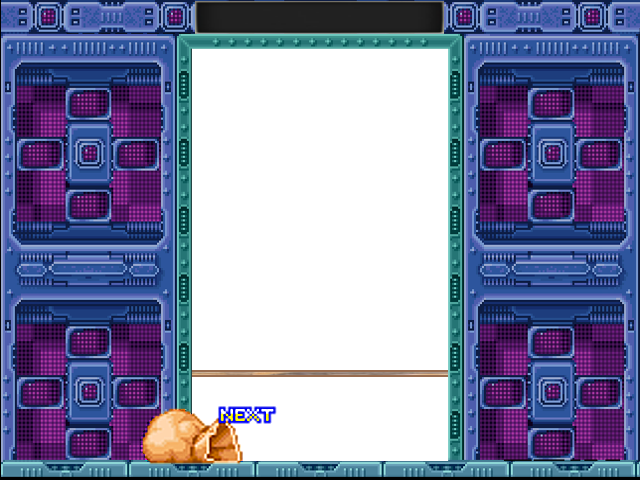
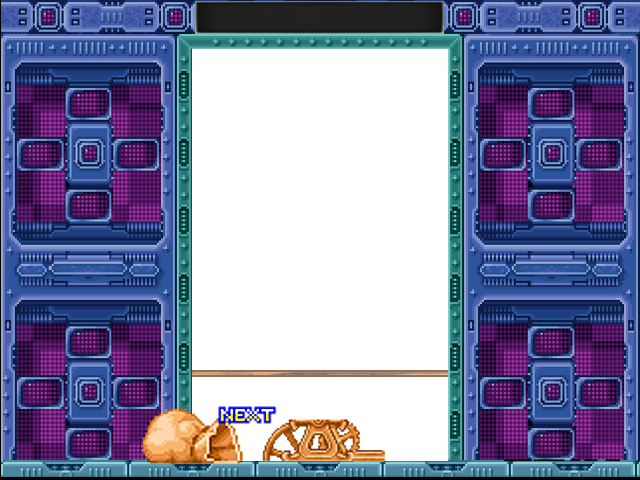
Added helper animation. Bug fixes

Changed region(s): [[0.4062, 0.875, 0.625, 0.9688]]

diff --git a/PuzzleBubble/Scene.cpp b/PuzzleBubble/Scene.cpp
@@ -19,8 +19,12 @@
 #define BALL_SCALE_Y 1.9f
 #define INITIAL_BALL_X 317
 #define INITIAL_BALL_Y 425
+#define MID_BALL_X 290
+#define MID_BALL_Y 442
 #define NEXT_BALL_X 234
 #define NEXT_BALL_Y 450
+#define BUB2_X 235
+#define BUB2_Y 420
 //timer definitons
 #define UPDATE_TIME 15000 //20000
 //music definitions
@@ -35,6 +39,11 @@
 #define NUMBER_OF_LEVELS 5
 char* levels[] = {"levels/level01.txt", "levels/level02.txt", "levels/level03.txt",  "levels/level04.txt",  "levels/level05.txt" };
 int level = 0;
+
+enum moves {
+	STILL, LOADBALL
+};
+
 Scene::Scene()
 {
 	map = NULL;
@@ -105,13 +114,13 @@ void Scene::init()
 
 	int color = rand() % 5;
 	texCoords[0] = ballsCoords[color * 2]; texCoords[1] = ballsCoords[(color * 2) + 1];
-	currentBall = Ball::createBall(geom, texCoords, texProgram);
+	currentBall = Ball::createBall(geom, texCoords, ballProgram);
 	currentBall->setPosition(glm::vec2(INITIAL_BALL_X, INITIAL_BALL_Y));
 	currentBall->setColor(color);
 
 	color = rand() % 5;
 	texCoords[0] = ballsCoords[color * 2]; texCoords[1] = ballsCoords[(color * 2) + 1];
-	nextBall = Ball::createBall(geom, texCoords, texProgram);
+	nextBall = Ball::createBall(geom, texCoords, ballProgram);
 	nextBall->setPosition(glm::vec2(NEXT_BALL_X, NEXT_BALL_Y));
 	nextBall->setColor(color);
 
@@ -155,6 +164,9 @@ void Scene::init()
 	musicTimer = 0;
 	specialBallDogWatch = 5;
 	exploding = 0;
+
+	initHelper();
+	framesBub2Anim = 0;
 }
 
 void Scene::update(int deltaTime)
@@ -164,7 +176,6 @@ void Scene::update(int deltaTime)
 		queue<int> ballsToExplode = map->getMustExplode(); // format of queue [color -> y -> x] (x first) in screen coords
 		scoreSound->stop();
 		score += (ballsToExplode.size() / 3) * 10;
-		explosions.clear();
 		while (!ballsToExplode.empty()) {
 			/*ballsExploding.push(ballsToExplode.front());
 			ballsToExplode.pop();
@@ -181,7 +192,7 @@ void Scene::update(int deltaTime)
 			ballsToExplode.pop();
 			Explosion *exp = new Explosion();
 			exp->init(texProgram, glm::vec2(x, y), color);
-			explosions.push_back(*exp);
+			explosions.push(exp);
 		}
 		exploding = 1;
 		map->resetMustExplode();
@@ -205,6 +216,15 @@ void Scene::update(int deltaTime)
 		status = UPDATING_BOARD;		
 	}
 	if (screenSoundPlaying)	skin->setPosition(glm::vec2(16.f + 3 - (rand() % 6), 8.f));
+	if (exploding) {
+		int expSize = explosions.size();
+		for (int i = 0; i < expSize; ++i) {
+			Explosion *exp = explosions.front();
+			explosions.pop();
+			exp->update(deltaTime);
+			explosions.push(exp);
+		}
+	}
 	switch (status) {
 	case STAGE_CLEAR:
 		delete(movingBall);
@@ -229,7 +249,32 @@ void Scene::update(int deltaTime)
 			screenSoundPlaying = false;
 		}
 		break;
-	case PLAYING:
+	case PLAYING:		
+		if (framesBub2Anim > 0) {
+			framesBub2Anim--;
+			if (framesBub2Anim == 10) {
+				nextBall->setPosition(glm::vec2(MID_BALL_X, MID_BALL_Y));
+			}
+		}
+		else if (bub2->getAnimation() != STILL) {
+			currentBall = nextBall;
+			currentBall->setPosition(glm::vec2(INITIAL_BALL_X, INITIAL_BALL_Y));
+			int color = rand() % 5;
+			int specialBall = rand() % 100;
+			specialBallDogWatch--;
+			if (specialBall < 20 && specialBallDogWatch <= 0) { //chance of special ball 20%
+				color = 7;
+				specialBallDogWatch = 5; //Minimum 5 balls between each special ball
+			}
+			glm::vec2 texCoords[2];
+			glm::vec2 geom[2] = { glm::vec2(0.f, 0.f), glm::vec2(16.f, 16.f) };
+			texCoords[0] = ballsCoords[color * 2]; texCoords[1] = ballsCoords[(color * 2) + 1];
+			nextBall = Ball::createBall(geom, texCoords, ballProgram);
+			nextBall->setColor(color);
+			nextBall->setPosition(glm::vec2(NEXT_BALL_X, NEXT_BALL_Y));
+			bub2->changeAnimation(STILL);
+		}
+		bub2->update(deltaTime);
 		musicTimer -= deltaTime;
 		if (map->checkDeath()) {
 			status = DEAD;
@@ -257,32 +302,19 @@ void Scene::update(int deltaTime)
 				delete(movingBall);
 				movingBall = NULL;				
 			}
-		}
-		if (exploding) {
-			for (int i = 0; i < explosions.size(); ++i)	explosions[i].update(deltaTime);
-		}
+		}		
 		if (player->isBallShot()) {
+			bub2->changeAnimation(LOADBALL);
+			framesBub2Anim = 20;
 			player->ballShotAcquired();
 			glm::vec2 texCoords[2];
 			glm::vec2 geom[2] = { glm::vec2(0.f, 0.f), glm::vec2(16.f, 16.f) };
 			texCoords[0] = ballsCoords[currentBall->getColor() * 2]; texCoords[1] = ballsCoords[(currentBall->getColor() * 2) + 1];
-			movingBall = Ball::createBall(geom, texCoords, texProgram);;
+			movingBall = Ball::createBall(geom, texCoords, ballProgram);;
 			movingBall->setColor(currentBall->getColor());
 			movingBall->setPosition(glm::vec2(INITIAL_BALL_X, INITIAL_BALL_Y));
-			movingBall->setDirection(player->getArrowDirection());
-			currentBall = nextBall;
-			currentBall->setPosition(glm::vec2(INITIAL_BALL_X, INITIAL_BALL_Y));
-			int color = rand() % 5;
-			int specialBall = rand() % 100;
-			specialBallDogWatch--;
-			if (specialBall < 20 && specialBallDogWatch <= 0) { //chance of special ball 20%
-				color = 7; 
-				specialBallDogWatch = 5; //Minimum 5 balls between each special ball
-			}
-			texCoords[0] = ballsCoords[color * 2]; texCoords[1] = ballsCoords[(color * 2) + 1];
-			nextBall = Ball::createBall(geom, texCoords, texProgram);
-			nextBall->setColor(color);
-			nextBall->setPosition(glm::vec2(NEXT_BALL_X, NEXT_BALL_Y));
+			movingBall->setDirection(player->getArrowDirection());	
+			currentBall = NULL;
 		}
 		if (map->getBallsNumber() == 0) {
 			status = STAGE_CLEAR;
@@ -298,33 +330,58 @@ void Scene::render(int deltaTime)
 {
 	texProgram.use();
 	background->render();
-	frameCounter++;	
-	glm::mat4 modelview;	
-	if (status == PLAYING) {
-		texProgram.setUniformMatrix4f("projection", projection);
+	frameCounter++;		
+	texProgram.setUniformMatrix4f("projection", projection);
+	if (status == PLAYING) {		
 		texProgram.setUniform4f("color", 1.0f, 1.0f, 1.0f, 1.0f);
 	}
-	else if(status == DEAD) {
-		texProgram.setUniformMatrix4f("projection", projection);
+	else if(status == DEAD) {		
 		texProgram.setUniform4f("color", 0.2f, 0.2f, 0.2f, 1.0f);
 	}
-	else if (status == STAGE_CLEAR) {
-		texProgram.setUniformMatrix4f("projection", projection);
+	else if (status == STAGE_CLEAR) {		
 		texProgram.setUniform4f("color", 0.6f, 0.6f, 0.6f, 1.0f);
 	}
-	modelview = glm::mat4(1.0f);
+	glm::mat4 modelview = glm::mat4(1.0f);
 	texProgram.setUniformMatrix4f("modelview", modelview);
 	texProgram.setUniform2f("texCoordDispl", 0.f, 0.f);
 	
 	map->render();
 	skin->render();
-	player->render();			
-	currentBall->render(glm::vec2(BALL_SCALE_X, BALL_SCALE_Y), ballsTex);
+	player->render();	
+	
+	bub2->render();
+	ballProgram.use();
+	ballProgram.setUniformMatrix4f("projection", projection);
+	ballProgram.setUniformMatrix4f("modelview", modelview);
+	ballProgram.setUniform2f("texCoordDispl", 0.f, 0.f);
+	if (status == PLAYING) {
+		ballProgram.setUniform4f("color", 1.0f, 1.0f, 1.0f, 1.0f);
+	}
+	else if (status == DEAD) {
+		ballProgram.setUniform4f("color", 0.2f, 0.2f, 0.2f, 1.0f);
+	}
+	else if (status == STAGE_CLEAR) {
+		ballProgram.setUniform4f("color", 0.6f, 0.6f, 0.6f, 1.0f);
+	}
+	if (currentBall != NULL) currentBall->render(glm::vec2(BALL_SCALE_X, BALL_SCALE_Y), ballsTex);
 	nextBall->render(glm::vec2(BALL_SCALE_X, BALL_SCALE_Y), ballsTex);
 	if (exploding) {
-		if ((explosions[0].getState() / 5) != exploding) ++exploding;
-		if (exploding > 20) exploding = 0;
-		for (int i = 0; i < explosions.size(); ++i)	explosions[i].render();
+		int expSize = explosions.size();
+		for (int i = 0; i < expSize; ++i) {
+			Explosion *exp = explosions.front();
+			explosions.pop();
+			if (exp->getState() < 20) {
+				explosions.push(exp);
+				exp->render();
+			}
+			else {
+				delete exp;
+			}					
+		}
+		if (explosions.size() == 0) {
+			exploding = 0;
+		}
+
 	}
 	
 	if (movingBall != NULL) {
@@ -370,21 +427,7 @@ void Scene::initShaders()
 		cout << "" << texProgram.log() << endl << endl;
 	}
 	texProgram.bindFragmentOutput("outColor");
-	vShader.free();
-	fShader.free();
-
-	vShader.initFromFile(VERTEX_SHADER, "shaders/text.vert");
-	if (!vShader.isCompiled())
-	{
-		cout << "Vertex Shader Error" << endl;
-		cout << "" << vShader.log() << endl << endl;
-	}
-	fShader.initFromFile(FRAGMENT_SHADER, "shaders/text.frag");
-	if (!fShader.isCompiled())
-	{
-		cout << "Fragment Shader Error" << endl;
-		cout << "" << fShader.log() << endl << endl;
-	}
+	
 	textProgram.init();
 	textProgram.addShader(vShader);
 	textProgram.addShader(fShader);
@@ -395,10 +438,43 @@ void Scene::initShaders()
 		cout << "" << textProgram.log() << endl << endl;
 	}
 	textProgram.bindFragmentOutput("outColor");
+
+
+	ballProgram.init();
+	ballProgram.addShader(vShader);
+	ballProgram.addShader(fShader);
+	ballProgram.link();
+	if (!ballProgram.isLinked())
+	{
+		cout << "Shader Linking Error" << endl;
+		cout << "" << ballProgram.log() << endl << endl;
+	}
+	ballProgram.bindFragmentOutput("outColor");
+
+
 	vShader.free();
 	fShader.free();
 
 	
+}
+
+void Scene::initHelper() {
+	bub2Tex.loadFromFile("images/bub2.png", TEXTURE_PIXEL_FORMAT_RGBA);
+	bub2Tex.setWrapS(GL_CLAMP_TO_EDGE);
+	bub2Tex.setWrapT(GL_CLAMP_TO_EDGE);
+	bub2Tex.setMinFilter(GL_NEAREST);
+	bub2Tex.setMagFilter(GL_NEAREST);
+	bub2 = Sprite::createSprite(glm::vec2(70.f, 54.f), glm::vec2(0.125f, 1.f), &bub2Tex, &texProgram);
+	bub2->setNumberAnimations(2);
+	bub2->setAnimationSpeed(STILL, 2);
+	bub2->addKeyframe(STILL, glm::vec2(0.0f, 0.f));
+	bub2->addKeyframe(STILL, glm::vec2(0.298f, 0.f));
+	bub2->setAnimationSpeed(LOADBALL, 5);
+	bub2->addKeyframe(LOADBALL, glm::vec2(0.584f, 0.f));
+	bub2->addKeyframe(LOADBALL, glm::vec2(0.71f, 0.f));
+	bub2->addKeyframe(LOADBALL, glm::vec2(0.852f, 0.f));	
+	bub2->changeAnimation(STILL);
+	bub2->setPosition(glm::vec2(BUB2_X, BUB2_Y));
 }
 
 

diff --git a/PuzzleBubble/Player.cpp b/PuzzleBubble/Player.cpp
@@ -65,16 +65,16 @@ void Player::init(const glm::ivec2 &tileMapPos, ShaderProgram &shaderProgram, gl
 void Player::update(int deltaTime, Ball *currentBall)
 {	
 	if (waitingToShoot > 0) waitingToShoot -= deltaTime;
-	if(Game::instance().getSpecialKey(GLUT_KEY_RIGHT))
+	if(Game::instance().getSpecialKey(GLUT_KEY_RIGHT) && arrowAngle < MAX_ARROW_ROT)
 	{
 		if (bub->animation() != RIGHT) bub->changeAnimation(RIGHT);
-		if (arrowAngle < MAX_ARROW_ROT) arrowAngle += ROT_SPEED * deltaTime;
+		arrowAngle += ROT_SPEED * deltaTime;
 		arrowDirection = -glm::normalize(glm::rotate(glm::mat4(1.0f), arrowAngle, glm::vec3(0.f, 0.f, 1.f)) * glm::vec4(0.f, 1.f, 0.f, 1.f));
 	}
-	else if(Game::instance().getSpecialKey(GLUT_KEY_LEFT))
+	else if(Game::instance().getSpecialKey(GLUT_KEY_LEFT) && arrowAngle > -MAX_ARROW_ROT)
 	{
 		if (bub->animation() != LEFT) bub->changeAnimation(LEFT);
-		if (arrowAngle > -MAX_ARROW_ROT) arrowAngle -= ROT_SPEED * deltaTime;
+		arrowAngle -= ROT_SPEED * deltaTime;
 		arrowDirection = -glm::normalize(glm::rotate(glm::mat4(1.0f), arrowAngle, glm::vec3(0.f, 0.f, 1.f)) * glm::vec4(0.f, 1.f, 0.f, 1.f));
 	}
 	else if (Game::instance().getKey(32) && waitingToShoot <= 0 && !blocked) {

diff --git a/PuzzleBubble/Scene.h b/PuzzleBubble/Scene.h
@@ -30,18 +30,20 @@ public:
 
 private:
 	void initShaders();
+	void initHelper();
 	TileMap *map;
 	Player *player;
-	ShaderProgram texProgram, textProgram;
+	ShaderProgram texProgram, textProgram, ballProgram;
 	float currentTime;
 	int updateScreenTimer;
 	glm::mat4 projection;
-	Sprite *skin, *background;
-	Texture skinTex, ballsTex, bgTex, explosionTex;	
+	Sprite *skin, *background, *bub2;
+	Texture skinTex, ballsTex, bgTex, explosionTex, bub2Tex;	
 	vector<glm::vec2> ballsCoords; //balls tex coords
-	vector<Explosion> explosions; //explosions go here 
+	queue<Explosion*> explosions; //explosions go here 
 	Ball *currentBall, *nextBall, *movingBall = NULL;
 	int status, score, frameCounter, musicTimer, specialBallDogWatch, stillExploding;
+	int framesBub2Anim;
 	Text text;
 	Sound *gameLoop, *screenMovementSound, *ballStopingSound, *stageClear, *scoreSound, *gameOverSound;
 	bool screenSoundPlaying = false;

diff --git a/PuzzleBubble/Sprite.h b/PuzzleBubble/Sprite.h
@@ -25,7 +25,7 @@ public:
 	void update(int deltaTime);
 	void render() const;
 	void free();
-
+	int getAnimation();
 	void rotate(float rotationAngle);
 	void setNumberAnimations(int nAnimations);
 	void setAnimationSpeed(int animId, int keyframesPerSec);

diff --git a/PuzzleBubble/Sprite.cpp b/PuzzleBubble/Sprite.cpp
@@ -69,6 +69,11 @@ void Sprite::free()
 	glDeleteBuffers(1, &vbo);
 }
 
+int Sprite::getAnimation()
+{
+	return currentAnimation;
+}
+
 void Sprite::rotate(float rotationAngle)
 {
 	this->rotationAngle = rotationAngle;

diff --git a/PuzzleBubble/Explosion.cpp b/PuzzleBubble/Explosion.cpp
@@ -65,7 +65,6 @@ void Explosion::render() {
 	++state;
 	if (state == 100) {
 		sprite->free();
-		delete this;
 	}
 }
 

diff --git a/PuzzleBubble/Explosion.h b/PuzzleBubble/Explosion.h
@@ -15,6 +15,6 @@ private:
 	Texture spritesheet;
 	Sprite *sprite;
 	TileMap *map;
-	int state;
+	int state;	
 };
 
